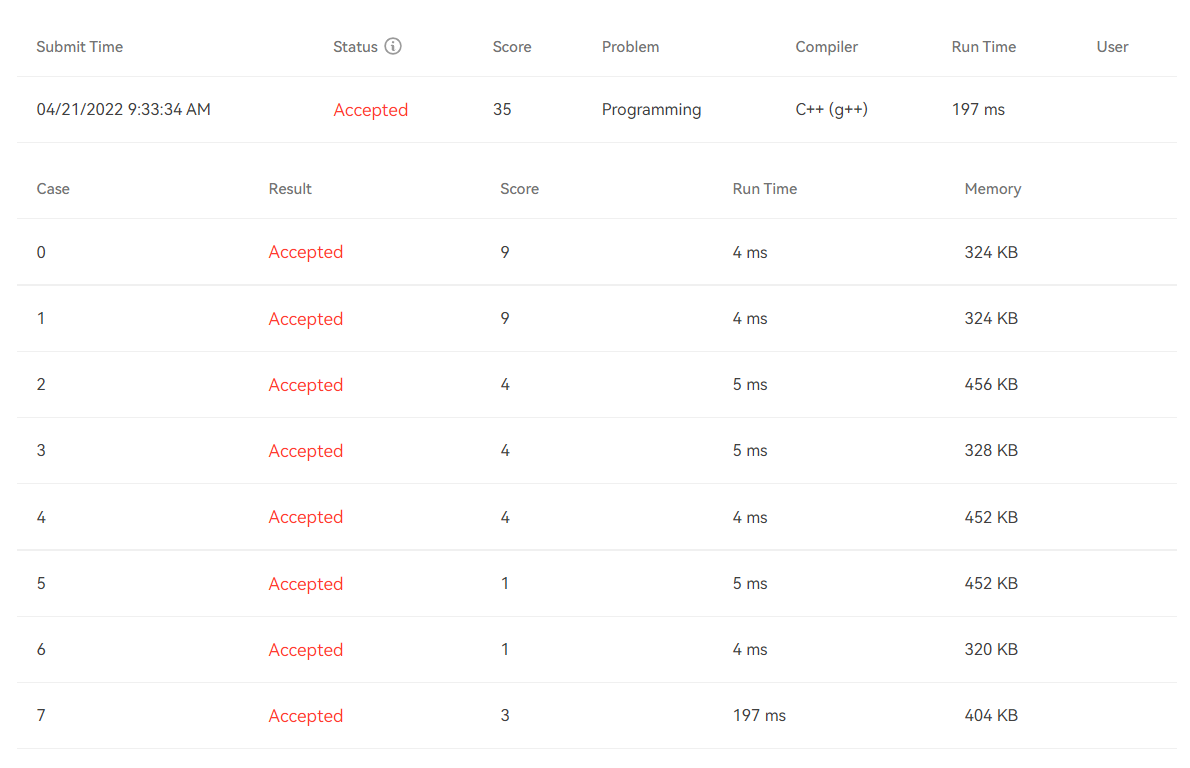
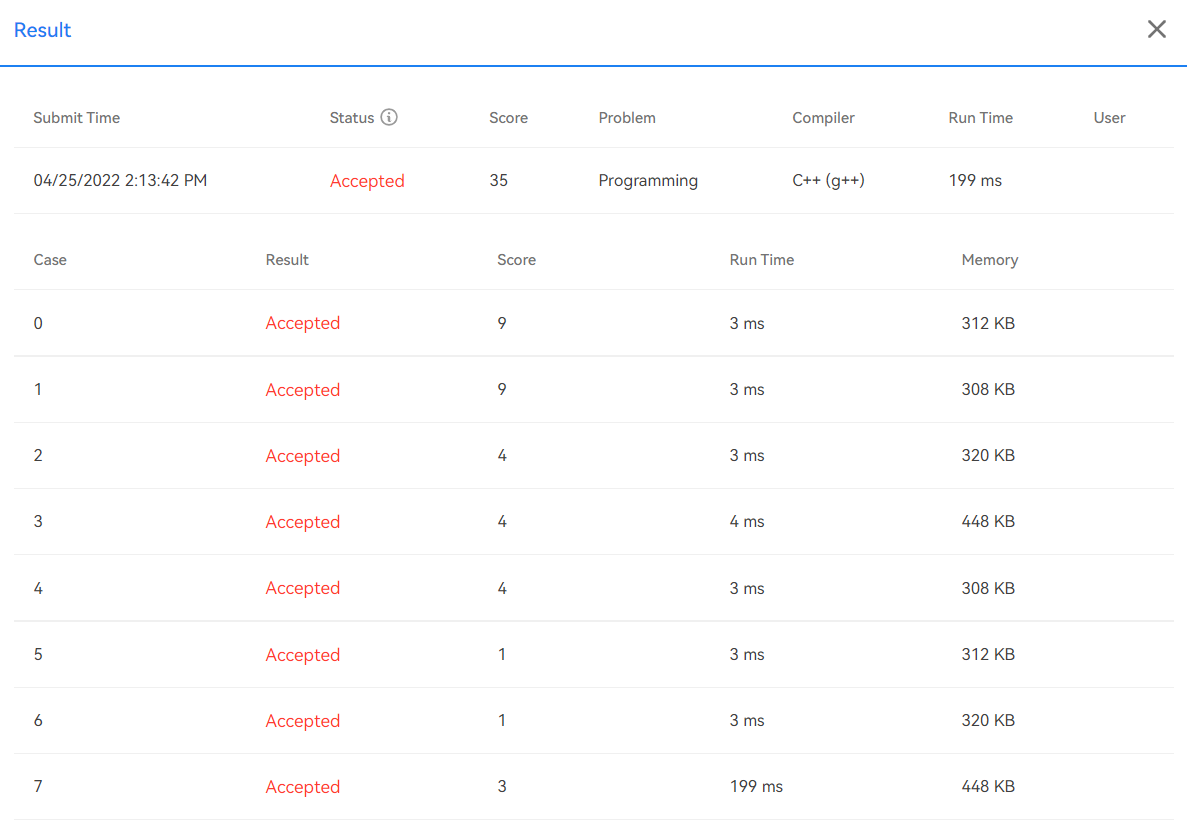
add 1028 and its attachments

diff --git a/programs/1028.cpp b/programs/1028.cpp
@@ -54,44 +54,45 @@ void read() {
     }
 }
 
+int prv[maxn];
+bool reachable[maxn] = {false}, alongside[maxn] = {false};
 
-bool check_in[maxn] = {false};
+void trace_back(int cur) {
+    while (cur != prv[cur]) {
+        alongside[cur] = true;
+        cur = prv[cur];
+    }
+}
 
-
-bool f = true;
 
 void dfs(int cur) {
     static bool vis[maxn] = {false};
     vis[cur] = true;
-    check_in[cur] = true;
+    reachable[cur] = true;
     if (cur == ed) {
         cnt++;
+        trace_back(ed);
     } else {
-        bool flag = false;
         for (int nxt: vgraph[cur]) {
             if (vis[nxt])
                 continue;
+            prv[nxt] = cur;
             dfs(nxt);
-            flag = true;
         }
-        if (!flag)
-            f = false;
     }
     vis[cur] = false;
 }
 
 void solve() {
-    check_in[st] = true;
+    prv[st] = st;
     dfs(st);
-//    针对case 6: ROM是孤立点
-    if (vgraph[name2id["ROM"]].empty())puts("No");
-//    针对case 2, 4, 7: 连通分量数大于1，且输出Yes
-    else if (!*std::min_element(check_in, check_in + N))puts("Yes");
-//    针对其它测试点
-    else if (!f)
-        puts("No");
-    else
-        puts("Yes");
+    bool f = true;
+    for (int i = 0; i < N; ++i) {
+        if (i == st)continue;
+        if (reachable[i] && !alongside[i])
+            f = false;
+    }
+    puts(f ? "Yes" : "No");
     std::cout << cnt;
 }
 

diff --git a/notebooks/1028.md b/notebooks/1028.md
@@ -72,18 +72,12 @@ No
 
 ## 解题思路
 
-使用DFS判断简单路径数量不是什么难事，关键在于如何判断条条大路是不是都通罗马。题目中对于"通罗马"给出的定义非常暧昧，缺乏形式化的表述。我个人的理解是：通罗马的路径是某条从起点到终点"ROM"的**子路径**。如果在dfs的过程中，遍历到某个非终点v却无法继续往下遍历时(此时可能是因为v的邻点均已被访问过)，则**在当前状态下从起点到v的路径**不通罗马。
+感谢用户 QAQ_0_0 提供的思路。
+在搜索过程中，我们需要记录以下两类点：
+- 第一类: 在搜索的过程中记录下所有由起点可达的点。
+- 第二类: 在搜索至终点"ROM"时记录下所有在路径上出现过的点。
 
-但是按照以上思路写出的代码无法通过case 2, 4, 7。
-
-后经过试验知：
-
-- case 6的"ROM"没有邻点，因此从起点出发的任何一条路都不可能通罗马，可以直接输出"No"，同时可以知道case 6是非连通图。
-- case 2, 4, 7也非连通图，但起点和"ROM"在同一个连通分量中，且输出"Yes"。
-
-因此我运用**面向答案编程**的思想，结合了三种能够部分AC的代码加以条件判断，最终骗得了35分，不以为耻还反以为荣，毕竟PAT不罚时，骗分也是一种技巧。
-
-如果有使用**常规方法**AC的大神，希望能够不吝赐教。
+当整个搜索过程结束时，如果存在某个仅属于第一类却不属于第二类的点v，则说明从起点到点v的路径不通罗马，此时输出No。
 
 ## 提交结果
 
